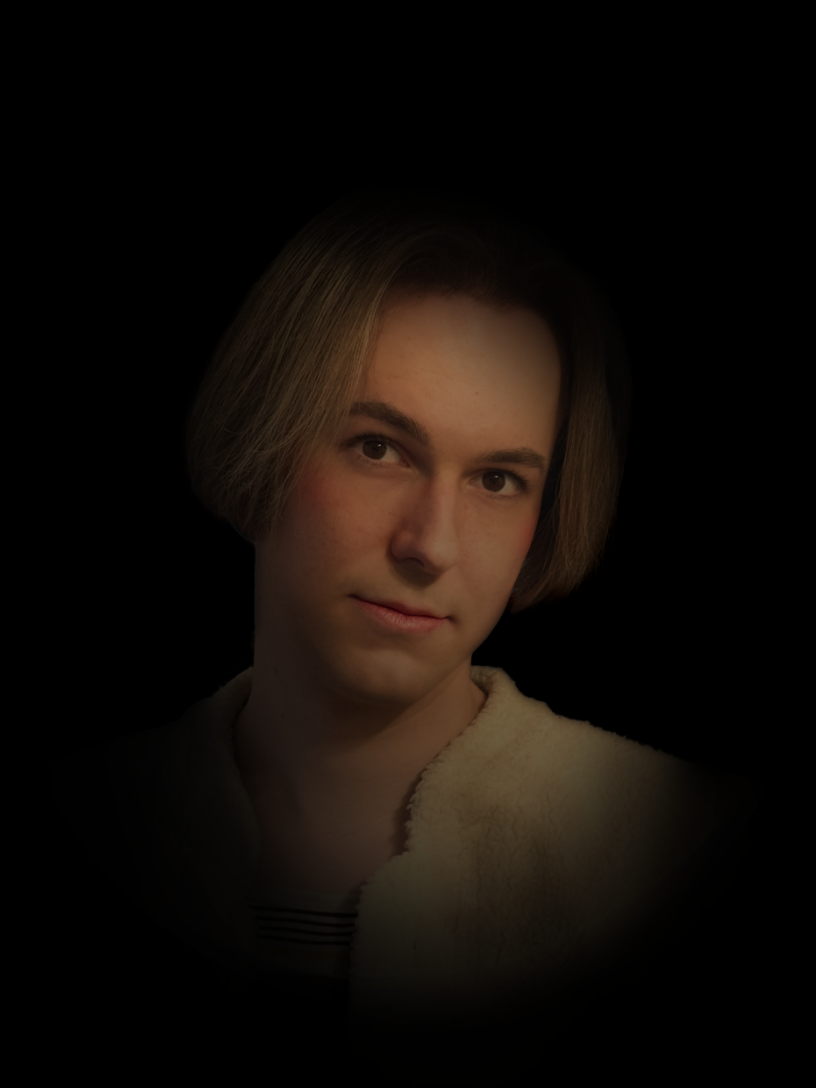
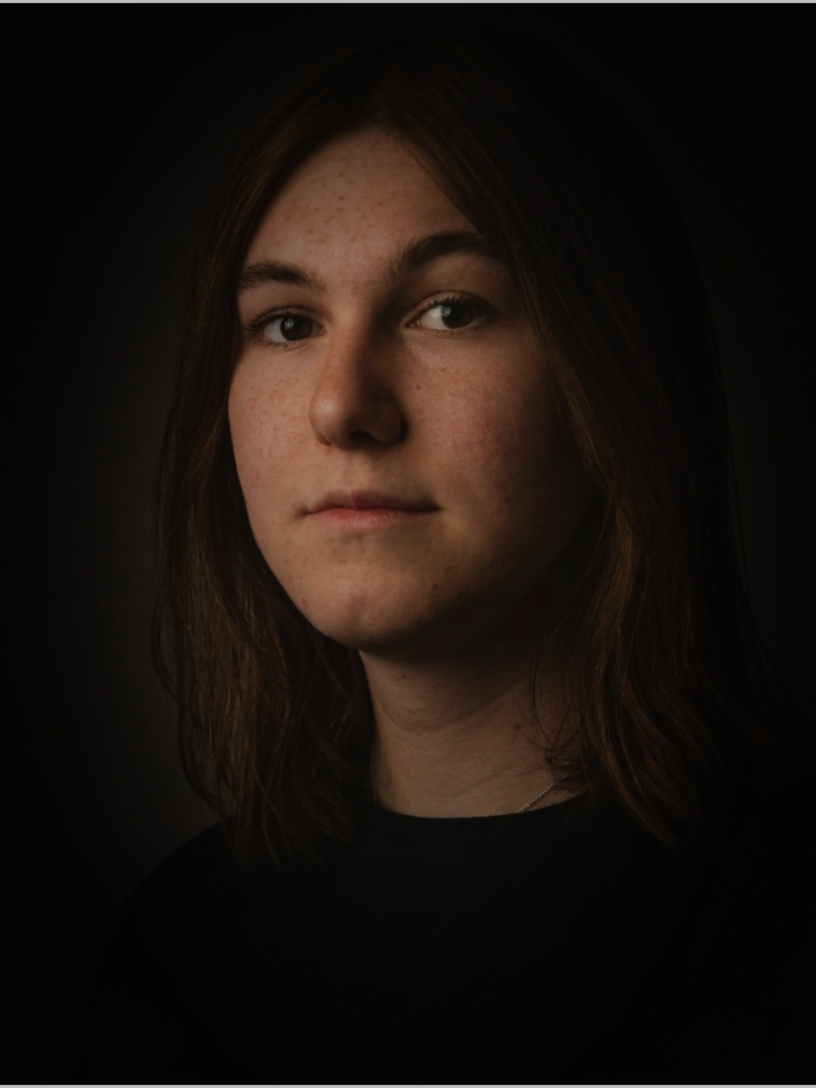
✨ added new me image

Changed region(s): [[0.1532, 0.0938, 0.7966, 0.875], [0.0, 0.9688, 1.0, 1.0], [0.0, 0.0, 1.0, 0.0312]]

diff --git a/src/components/pages/Home/Home.tsx b/src/components/pages/Home/Home.tsx
@@ -199,7 +199,7 @@ export default function Home() {
 					/>
 				</HeaderSection>
 			</Section>
-			<Section background={ '#000' }>
+			<Section background={ '#090706' }>
 				<MeSection>
 					<Me />
 				</MeSection>

diff --git a/src/components/layouts/Me/Me.tsx b/src/components/layouts/Me/Me.tsx
@@ -46,7 +46,7 @@ const MeInfoContainer = styled.div`
 `;
 
 const MeImageContainer = styled.div`
-	margin: 1.75vw auto;
+	margin: 2.75vw auto;
 	width: 70%;
 	place-self: center;
 	transform: translateY(-1.5vw);
